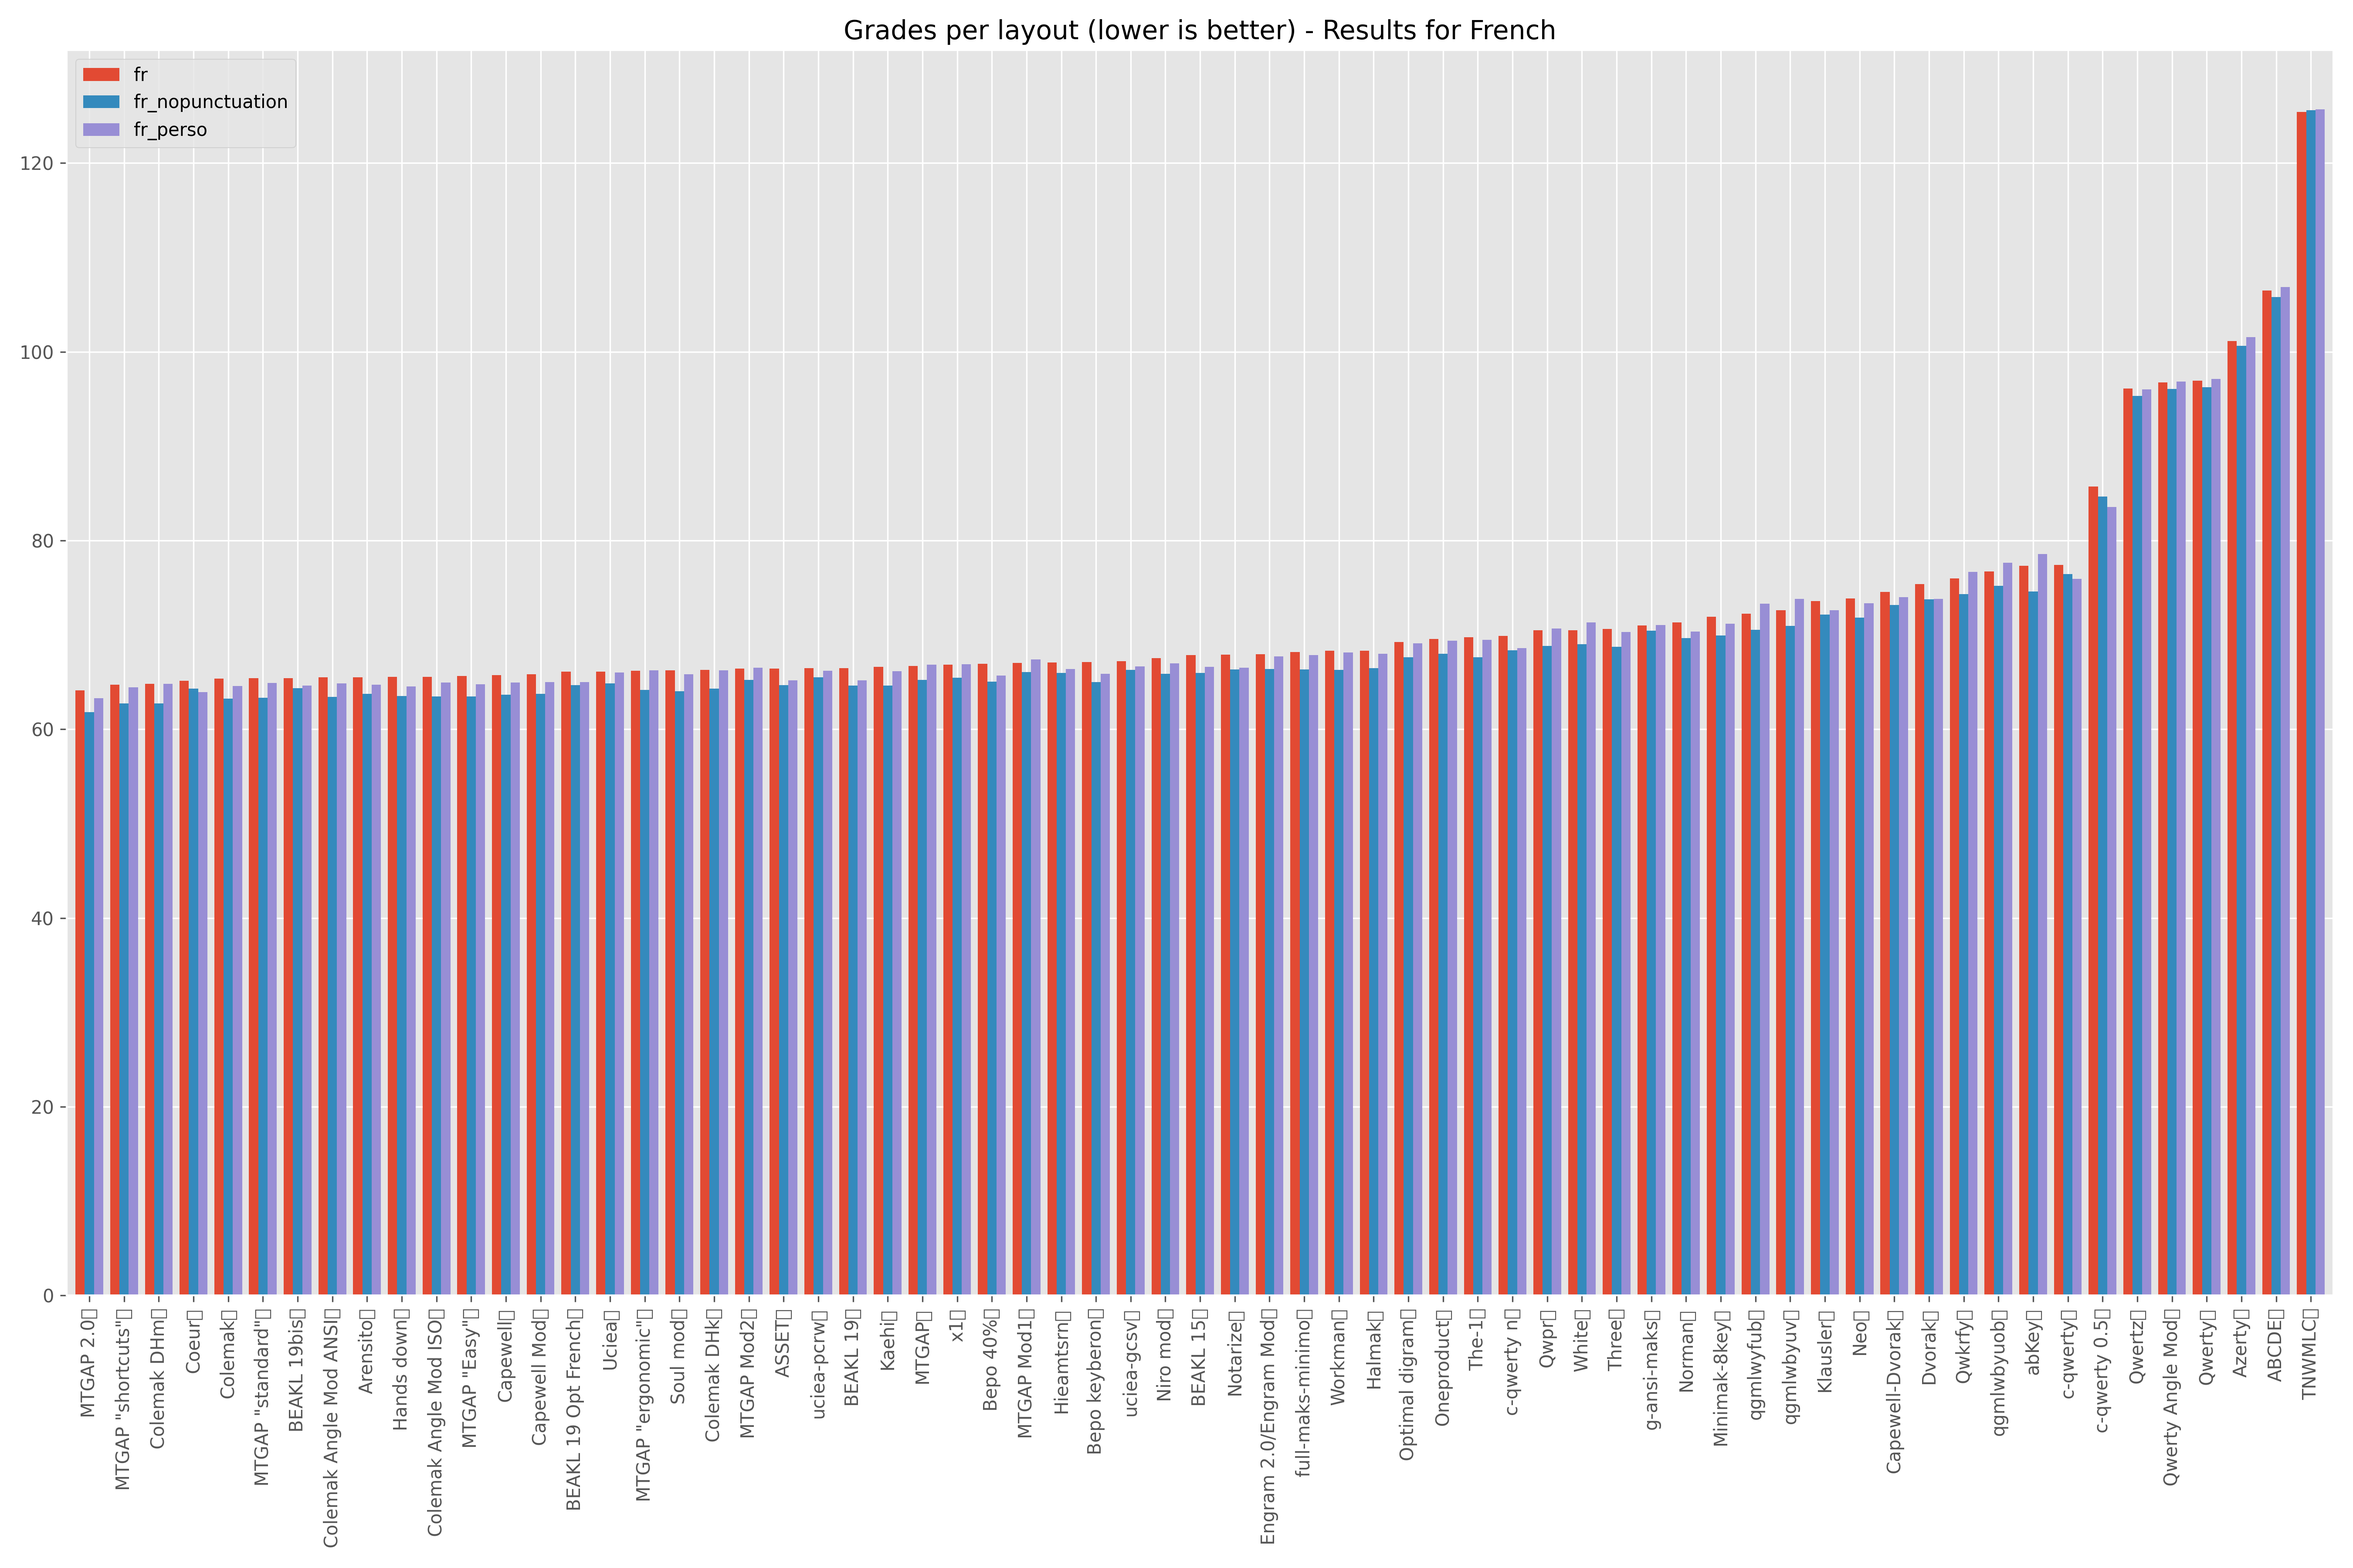
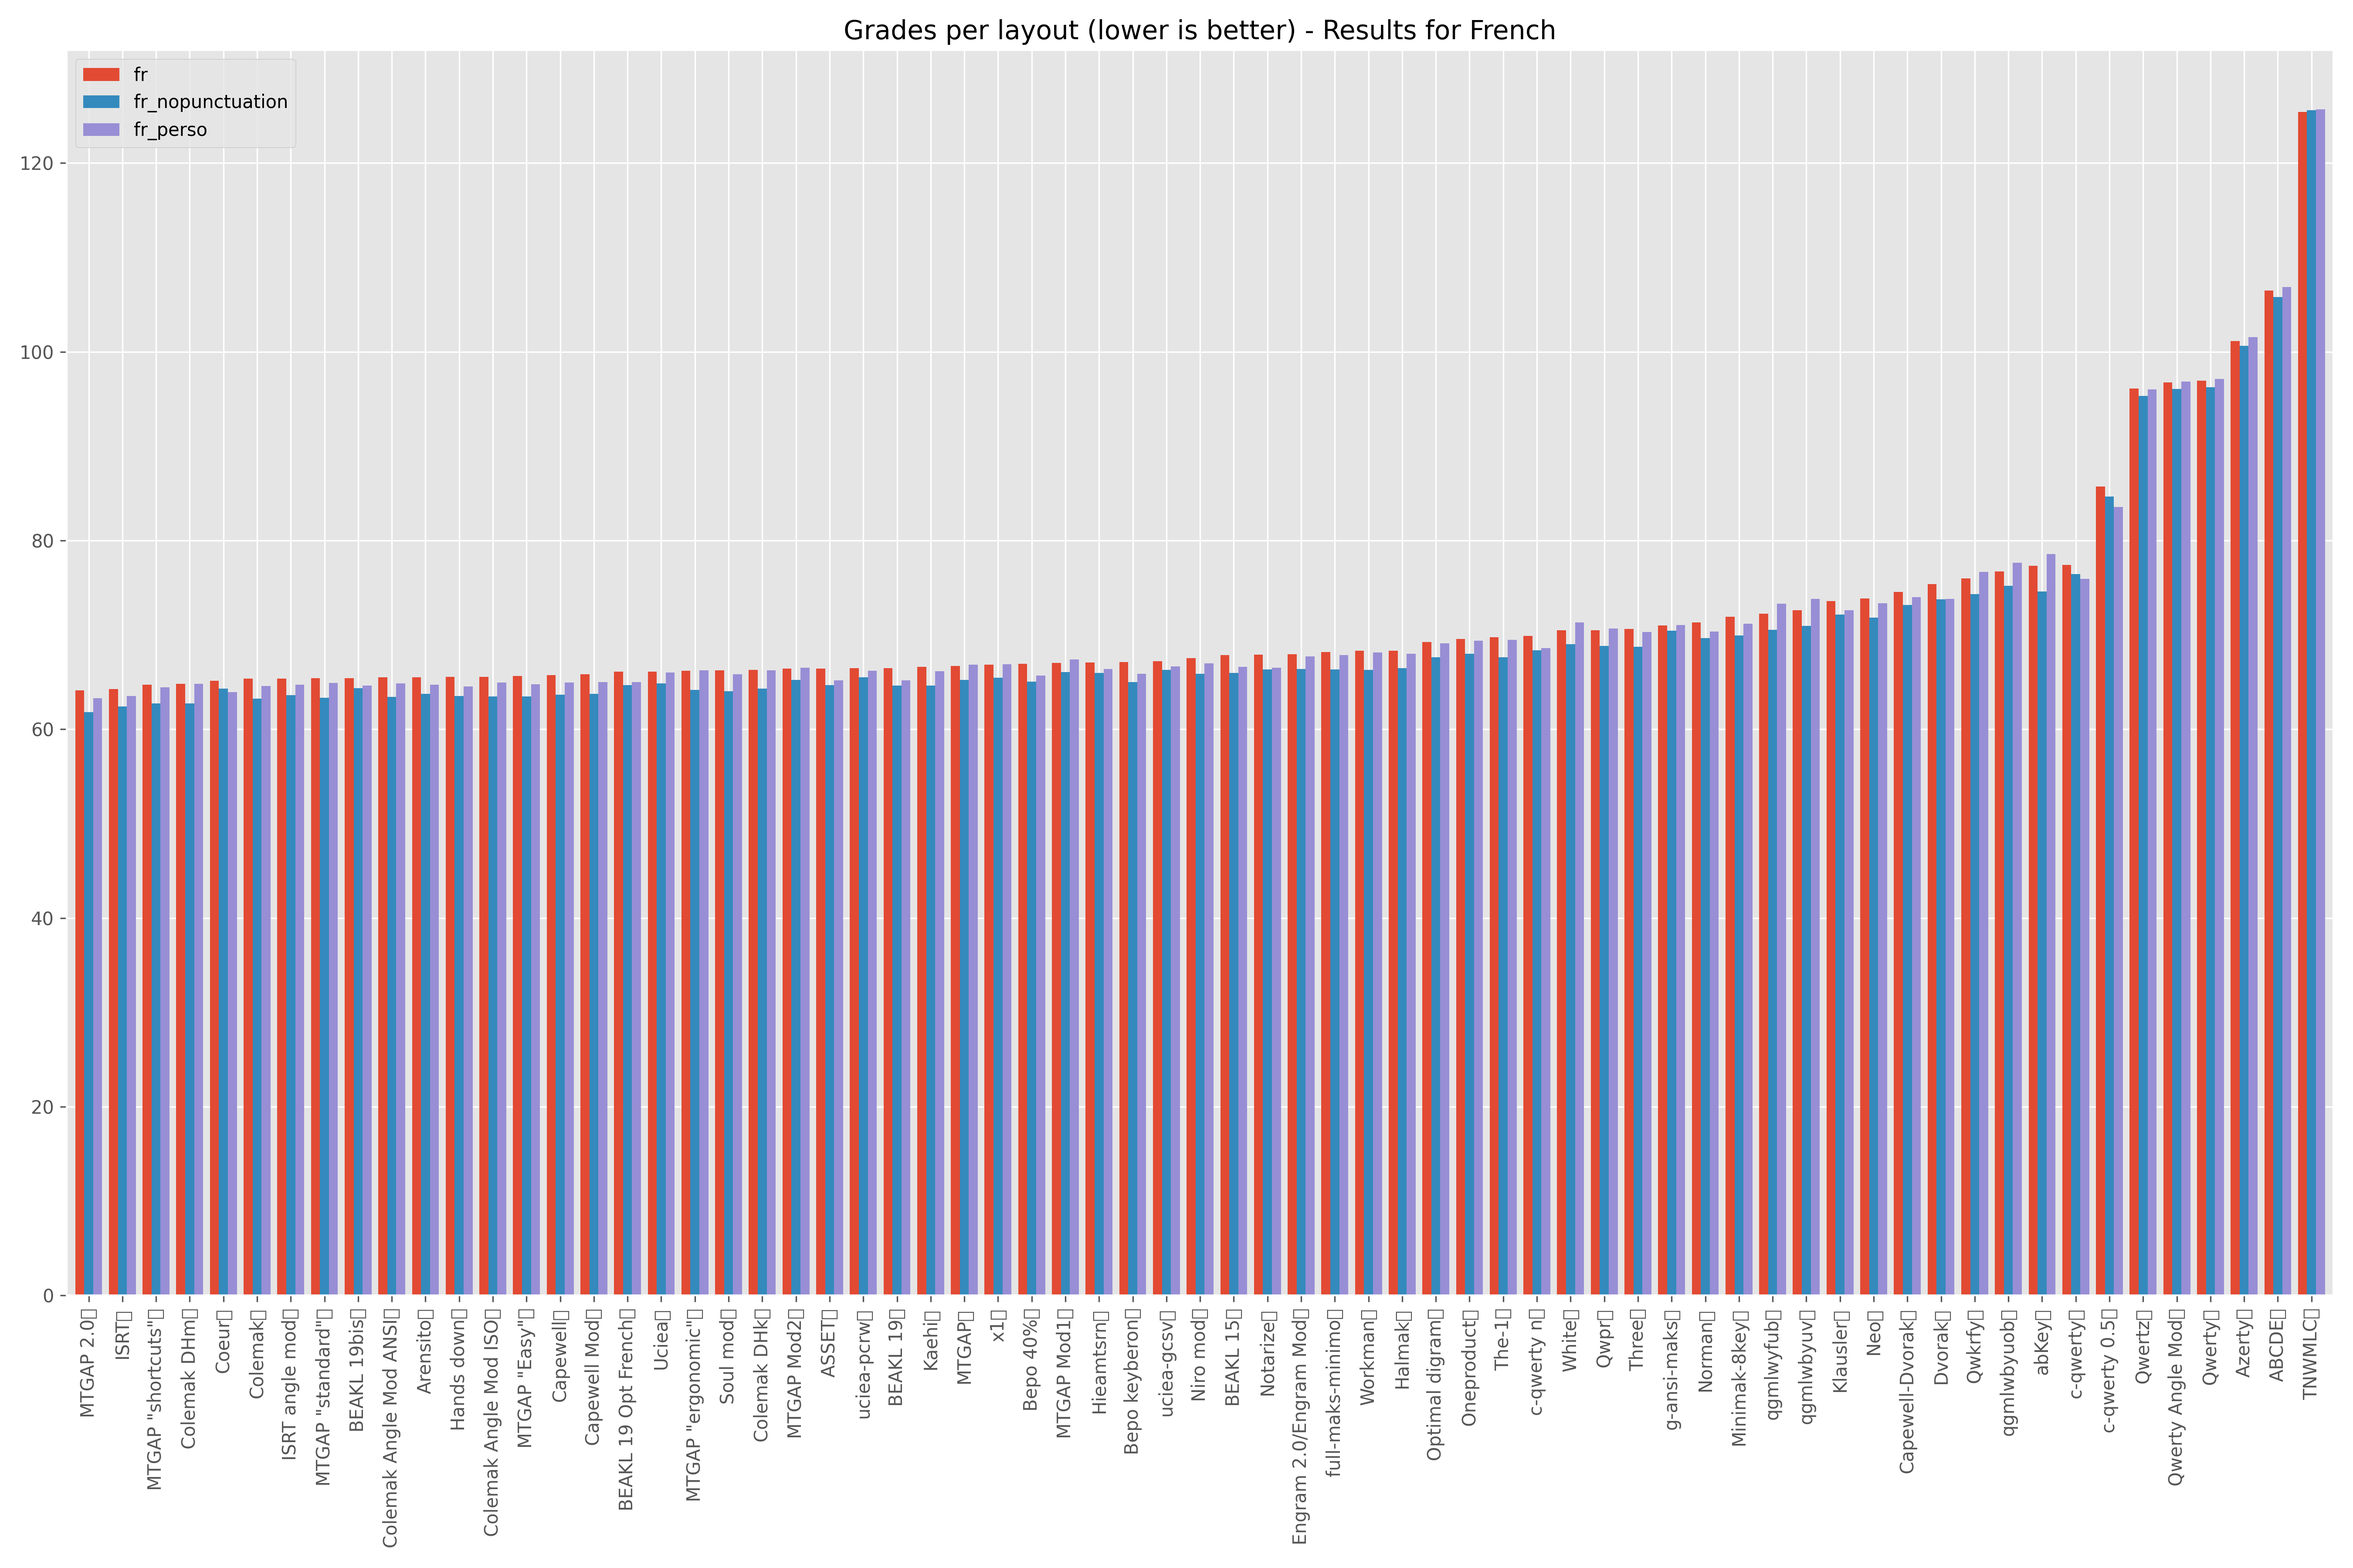
add ISRT

diff --git a/README.md b/README.md
@@ -239,6 +239,7 @@ Here is the complete results list. The layouts can be seen in `config.txt`.
 | MTGAP 2.0 | 64.91 | 64.43 | 63.29 | 64.210000 | 64.13 | 63.27 | 64.01 | 64.98 | 66.77 | 64.734000 |
 | MTGAP "ergonomic" | 64.99 | 64.95 | 63.66 | 64.533333 | 66.20 | 66.25 | 64.81 | 66.23 | 66.72 | 65.703667 |
 | White | 65.10 | 63.99 | 64.18 | 64.423333 | 70.50 | 71.32 | 68.09 | 66.50 | 69.55 | 67.894667 |
+| ISRT | 65.13 | 64.44 | 64.05 | 64.540000 | 64.25 | 63.54 | 63.11 | 64.89 | 65.55 | 64.397000 |
 | Kaehi | 65.56 | 64.18 | 64.33 | 64.690000 | 66.59 | 66.14 | 65.92 | 67.83 | 67.94 | 66.549000 |
 | Arensito | 65.60 | 65.15 | 64.65 | 65.133333 | 65.52 | 64.74 | 66.05 | 65.64 | 68.90 | 66.170667 |
 | x1 | 65.63 | 64.86 | 64.79 | 65.093333 | 66.86 | 66.89 | 66.28 | 68.03 | 67.91 | 66.837667 |
@@ -255,6 +256,7 @@ Here is the complete results list. The layouts can be seen in `config.txt`.
 | Uciea | 66.43 | 66.13 | 65.77 | 66.110000 | 66.10 | 66.01 | 65.01 | 65.99 | 68.32 | 66.297000 |
 | Oneproduct | 66.44 | 66.06 | 65.38 | 65.960000 | 69.56 | 69.36 | 68.07 | 68.45 | 69.22 | 68.232000 |
 | Hands down | 66.64 | 66.19 | 65.51 | 66.113333 | 65.55 | 64.51 | 66.10 | 63.14 | 66.66 | 65.408667 |
+| ISRT angle mod | 66.67 | 66.10 | 65.62 | 66.130000 | 65.37 | 64.73 | 64.55 | 66.39 | 67.14 | 65.852000 |
 | MTGAP "Easy" | 66.78 | 66.43 | 65.71 | 66.306667 | 65.62 | 64.76 | 64.55 | 64.97 | 65.35 | 65.273333 |
 | Colemak Angle Mod ANSI | 66.82 | 66.96 | 65.64 | 66.473333 | 65.50 | 64.86 | 65.25 | 66.66 | 68.10 | 66.332667 |
 | Colemak Angle Mod ISO | 66.88 | 67.01 | 65.70 | 66.530000 | 65.56 | 64.94 | 65.60 | 67.01 | 68.14 | 66.506000 |
